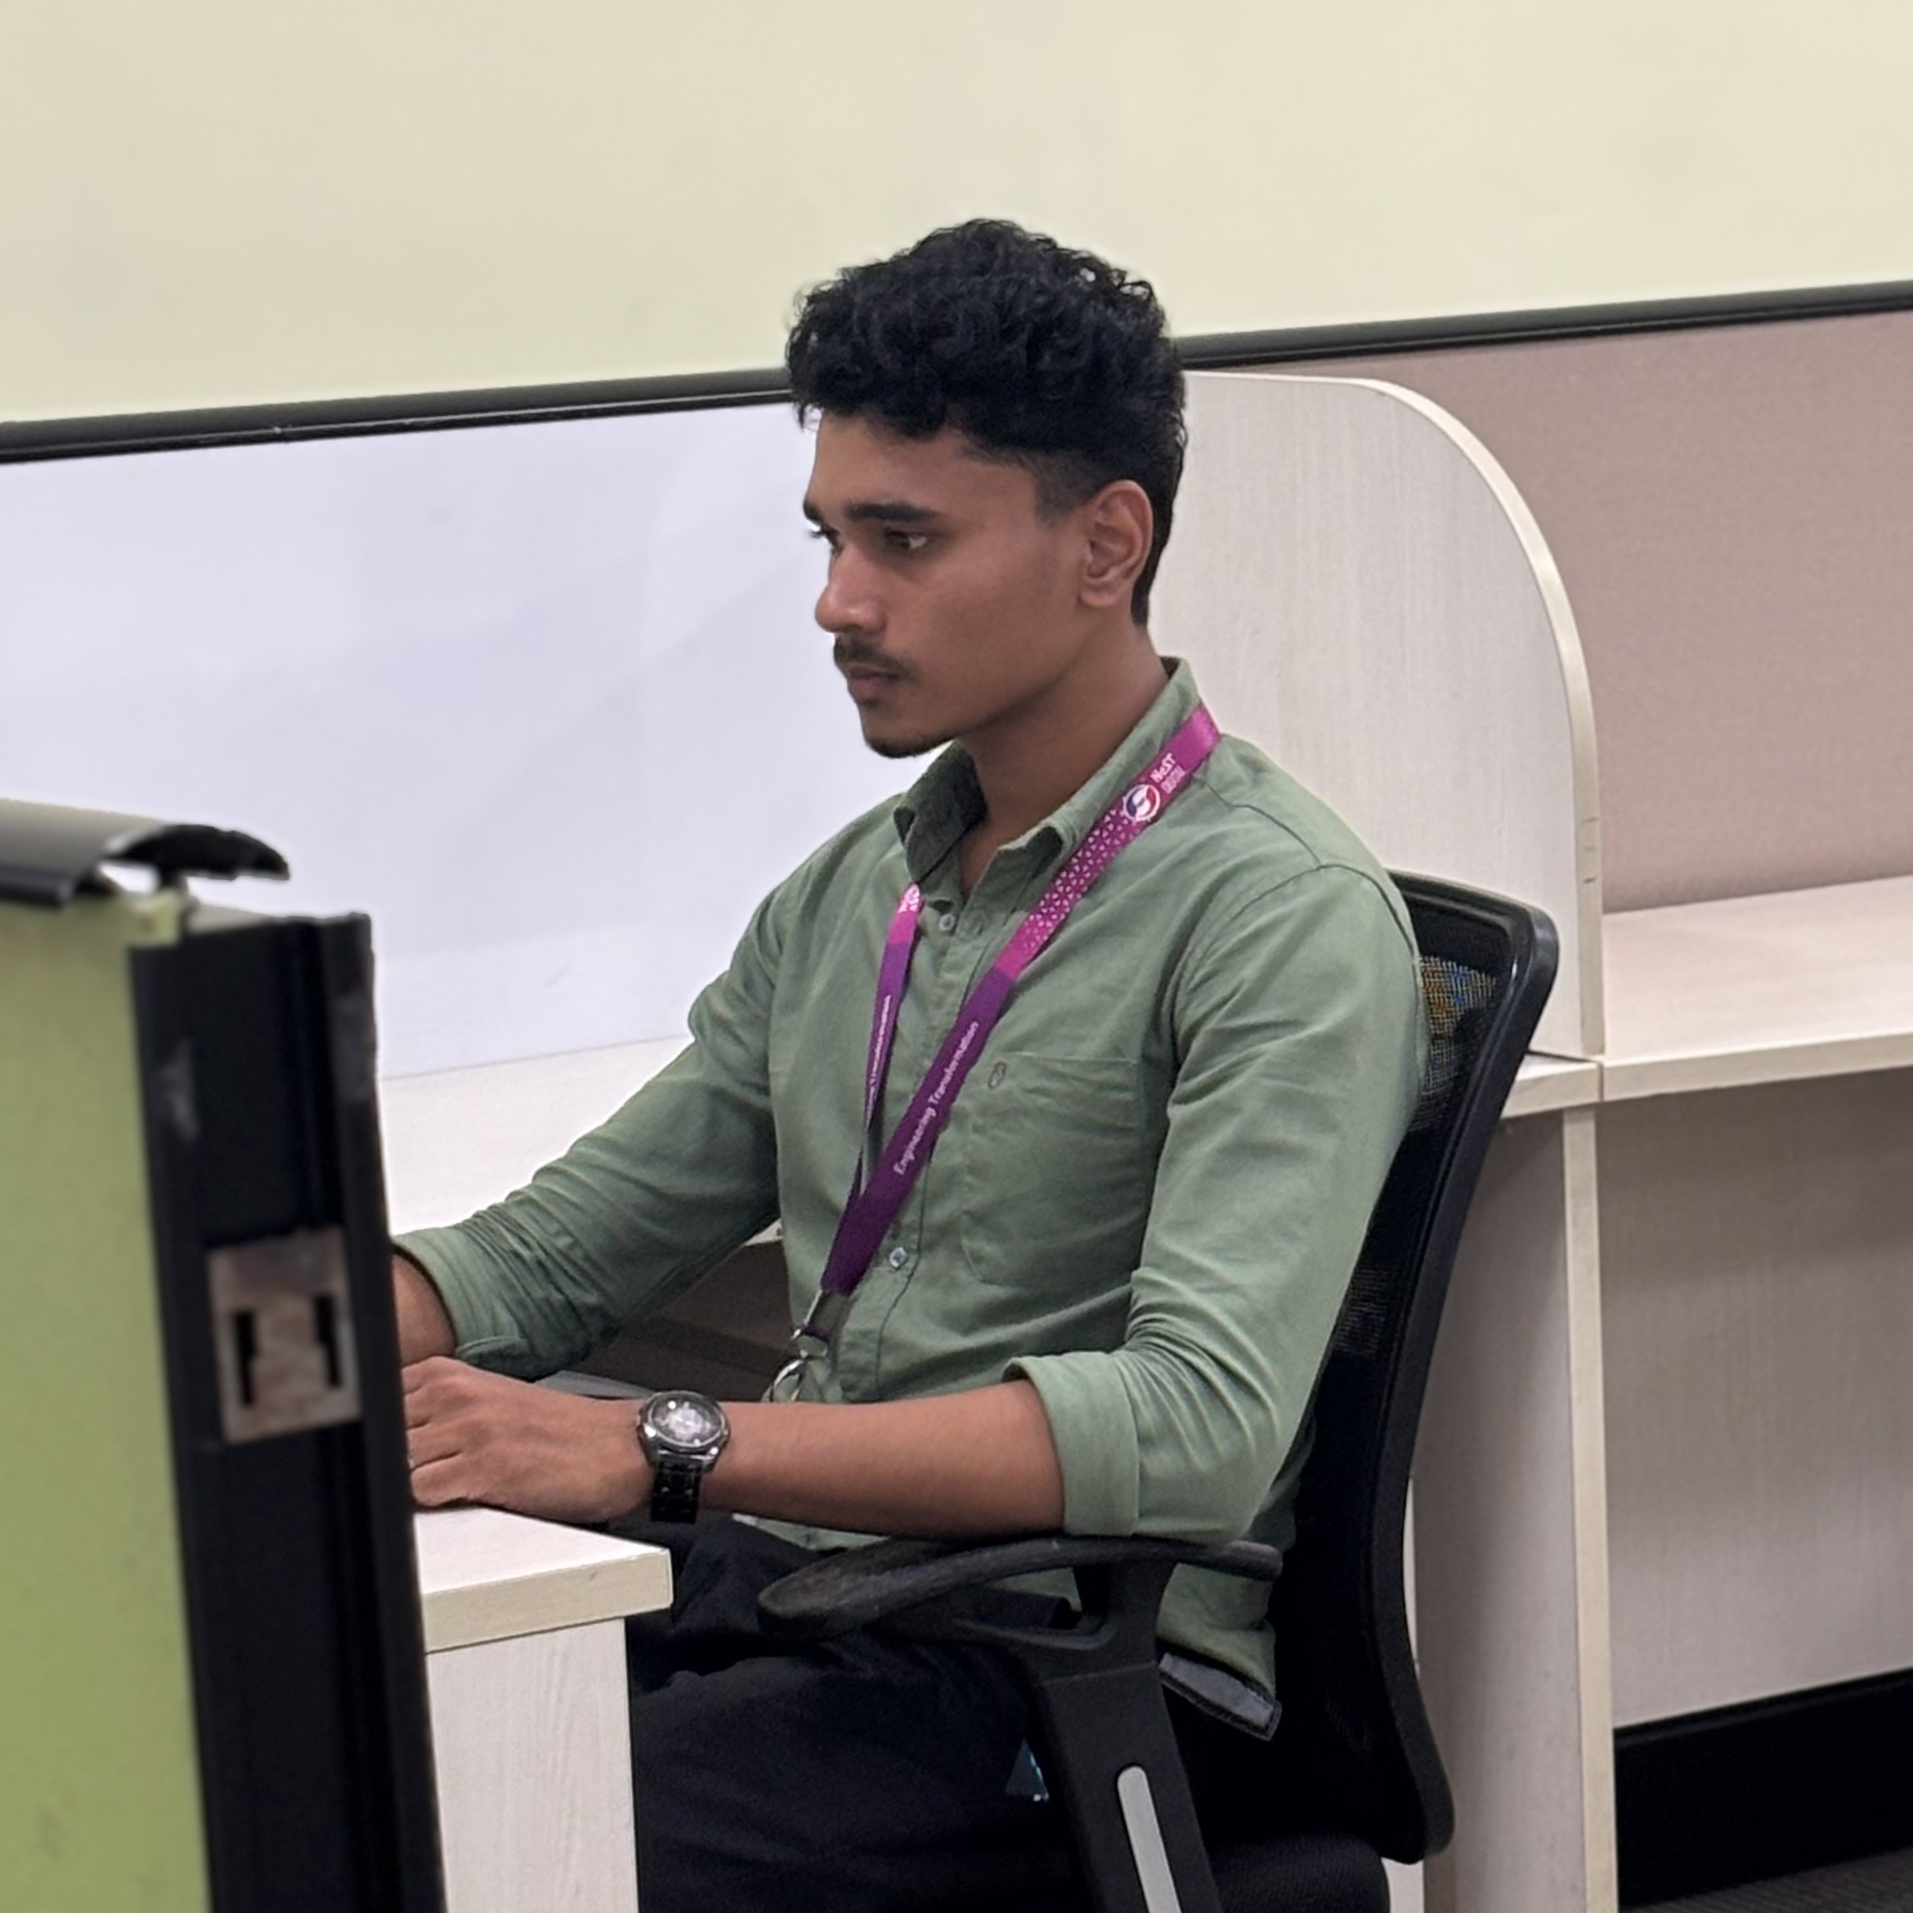
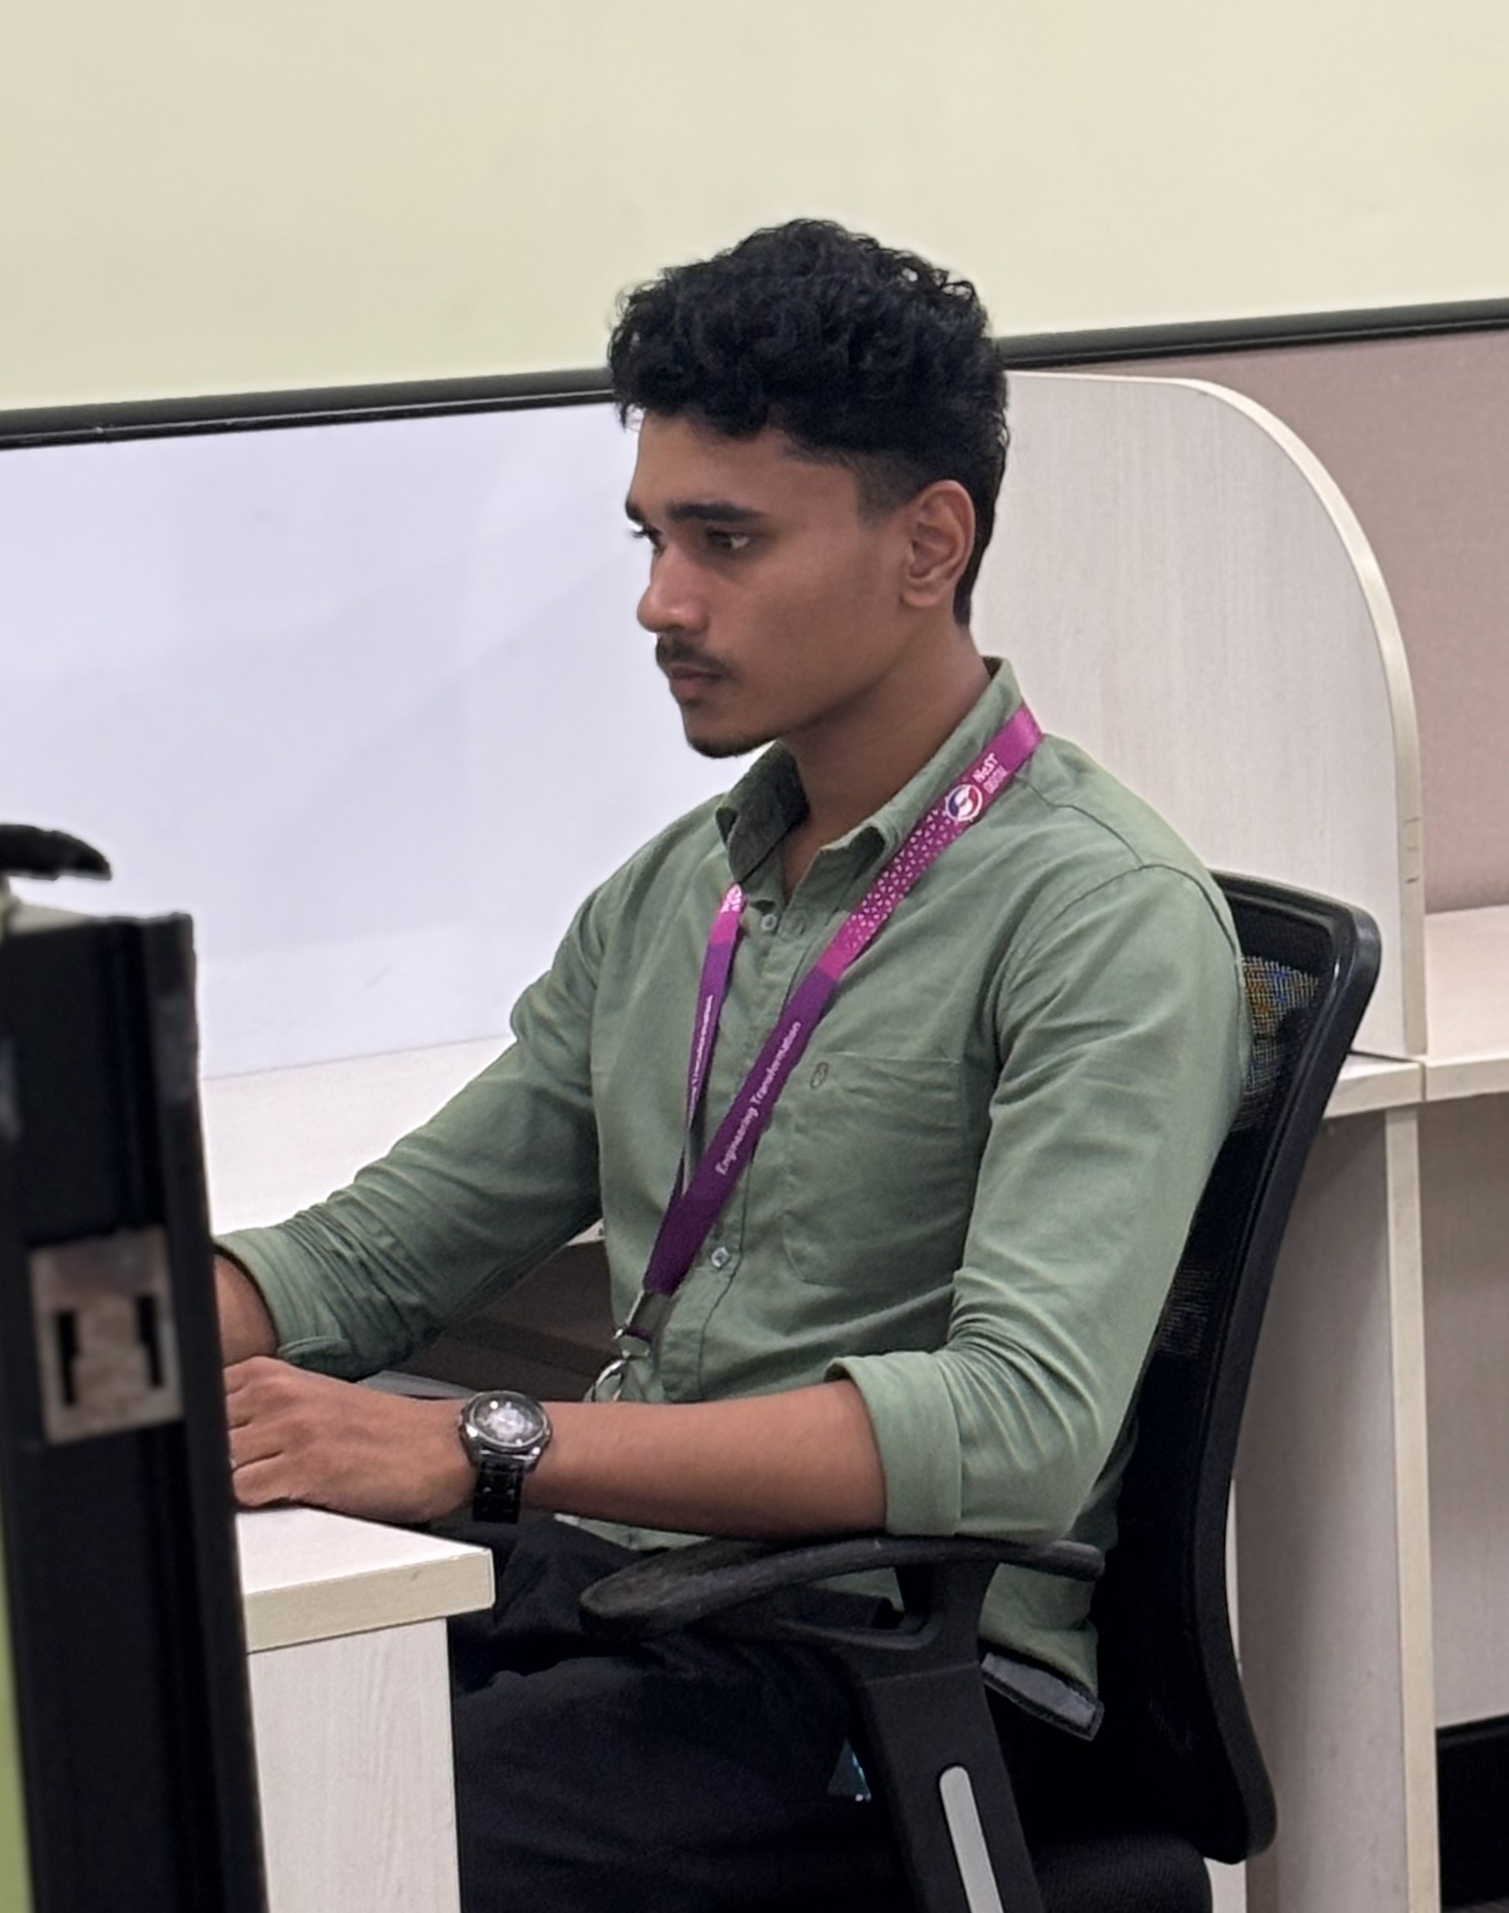
More prefessional

diff --git a/index.html b/index.html
@@ -44,7 +44,12 @@
   ],
   "jobTitle": "Full Stack Developer, Software Engineer, Web Developer",
   "description": "Full Stack Developer specializing in Python, Django, Java, PHP, Angular and JavaScript. Portfolio showcasing projects, skills, certifications and contact information.",
-  "image": "https://anwarshans.vercel.app/Uploads/Internship.jpg",
+  "image": [
+    "https://anwarshans.vercel.app/Uploads/Anwarsha%20prefessional.jpg",
+    "https://anwarshans.vercel.app/Uploads/Anwarsha%20prefessional.jpeg",
+    "https://anwarshans.vercel.app/Uploads/Anwarsha%20Intership%202.jpg",
+    "https://anwarshans.vercel.app/Uploads/Anwarsha%20Intership.jpg"
+  ],
   "address": {
     "@type": "PostalAddress",
     "addressLocality": "Kerala",
@@ -53,7 +58,6 @@
 }
 </script>
 <link rel="preconnect" href="https://fonts.gstatic.com" crossorigin>
-<link href="https://fonts.googleapis.com/css2?family=Inter:wght@300;400;500;600;700;800&family=JetBrains+Mono:wght@400;500&display=swap" rel="stylesheet">
 <style>
 *,*::before,*::after{box-sizing:border-box;margin:0;padding:0}
 :root{
@@ -614,7 +618,7 @@ footer{background:var(--bg);border-top:1px solid var(--border);padding:2rem 2.5r
 
 <!-- NAV -->
 <nav id="navbar">
-  <a href="#hero" class="nav-logo hoverable">Anwarshans<span style="color:var(--text3)">.</span>NS</a>
+  <a href="#hero" class="nav-logo hoverable">Anwarsha<span style="color:var(--text3)">.</span>NS</a>
   <ul class="nav-links">
     <li><a href="#about" class="hoverable">About</a></li>
     <li><a href="#skills" class="hoverable">Skills</a></li>
@@ -668,7 +672,7 @@ footer{background:var(--bg);border-top:1px solid var(--border);padding:2rem 2.5r
       </div>
     </div>
     <div class="hero-card tilt reveal-right delay-2" id="heroCard">
-      <div class="hero-photo-wrap"><img class="hero-photo" src="Uploads/Internship.jpg" alt="Anwarsha N S Full Stack Developer and Software Engineer" loading="eager" decoding="async"></div>
+      <div class="hero-photo-wrap"><img class="hero-photo" src="Uploads/Anwarsha Internship 2.jpg" alt="Anwarsha N S Full Stack Developer and Software Engineer" loading="eager" decoding="async"></div>
       <div class="hero-profile">
         <div class="hc-name">Anwarsha N S</div>
         <div class="hc-title">Full Stack Developer</div>
@@ -691,7 +695,7 @@ footer{background:var(--bg);border-top:1px solid var(--border);padding:2rem 2.5r
     <div class="about-shell reveal-right delay-1">
       <div class="about-visual">
         <div class="about-photo-card">
-          <img src="Uploads/Work.jpg" alt="Anwarsha N S developing software applications" loading="lazy" decoding="async">
+          <img src="Uploads/Anwarsha Work.jpg" alt="Anwarsha N S developing software applications" loading="lazy" decoding="async">
           <div class="about-photo-caption">
             <div class="about-social">
               <a class="about-social-link hoverable" href="https://linkedin.com/in/anwarshans" target="_blank" rel="noopener" aria-label="LinkedIn profile">
@@ -1038,6 +1042,26 @@ footer{background:var(--bg);border-top:1px solid var(--border);padding:2rem 2.5r
       </div>
     </div>
   </div>
+</section>
+
+<section class="seo-image-bank" aria-label="Additional portfolio photos" style="position:absolute;left:-10000px;top:auto;width:1px;height:1px;overflow:hidden;">
+  <h2>Additional portfolio photos</h2>
+  <figure>
+    <img src="Uploads/Anwarsha%20prefessional.jpg" alt="Anwarsha prefessional photo JPG">
+    <figcaption>Anwarsha prefessional.jpg</figcaption>
+  </figure>
+  <figure>
+    <img src="Uploads/Anwarsha%20prefessional.jpeg" alt="Anwarsha prefessional photo JPEG">
+    <figcaption>Anwarsha prefessional.jpeg</figcaption>
+  </figure>
+  <figure>
+    <img src="Uploads/Anwarsha%20Intership%202.jpg" alt="Anwarsha internship photo 2 JPG">
+    <figcaption>Anwarsha Intership 2.jpg</figcaption>
+  </figure>
+  <figure>
+    <img src="Uploads/Anwarsha%20Intership.jpg" alt="Anwarsha internship photo JPG">
+    <figcaption>Anwarsha Intership.jpg</figcaption>
+  </figure>
 </section>
 
 <!-- FOOTER -->
